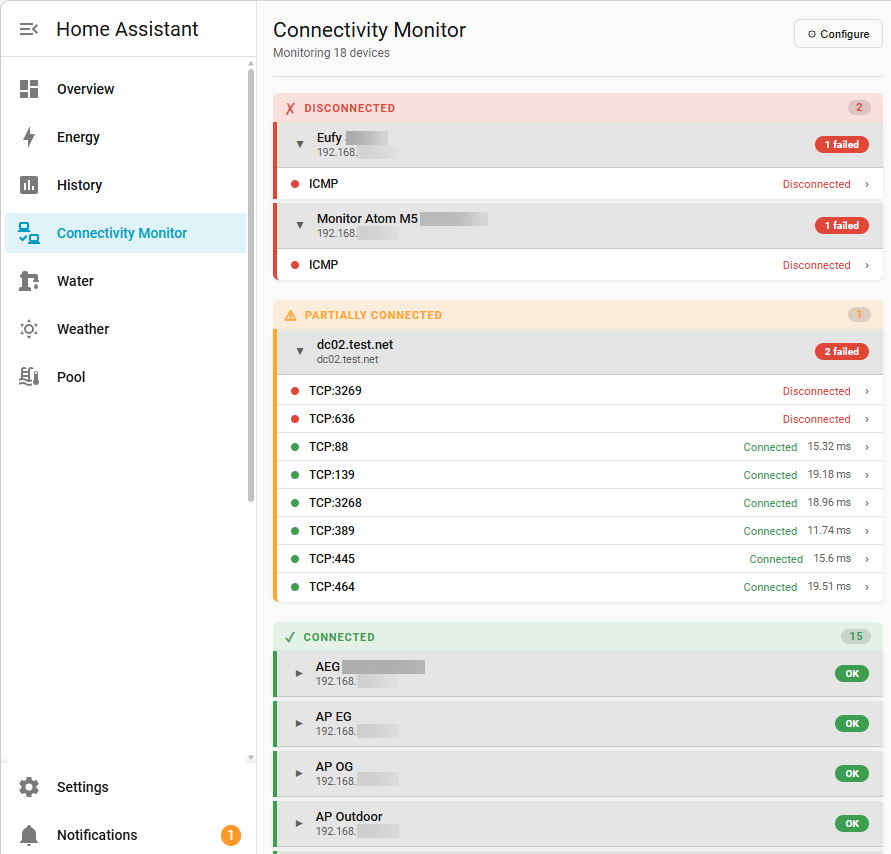
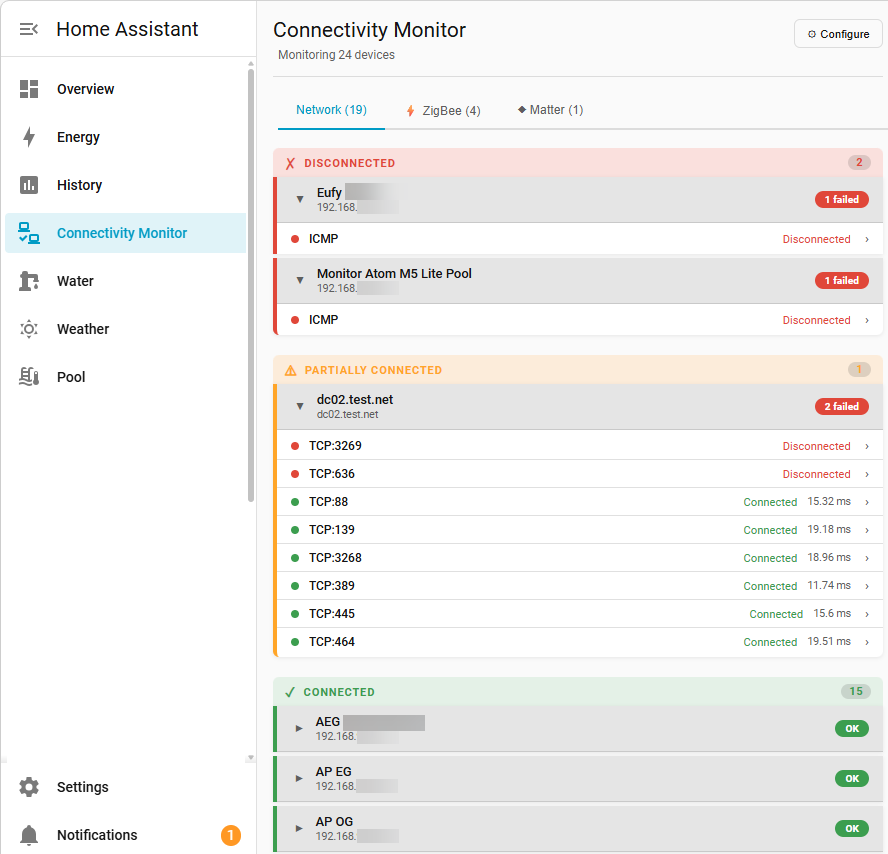
0.1.00040 Clean up orphaned devices

diff --git a/custom_components/connectivity_monitor/www/panel.js b/custom_components/connectivity_monitor/www/panel.js
@@ -395,7 +395,7 @@
         ? "<span class=\"sensor-latency\">action: " + esc(device.alertAction.split(".").slice(1).join(".") || device.alertAction) + " (" + esc(device.alertActionDelay) + " min)</span>"
         : "";
 
-      return "<div class=\"device-card card-" + meta.css + "\">" + +
+      return "<div class=\"device-card card-" + meta.css + "\">" +
         "<div class=\"device-header\">" +
           "<button class=\"toggle-btn\" data-toggle=\"" + esc(toggle) + "\" title=\"" + (collapsed ? "Expand" : "Collapse") + "\">" + chevron + "</button>" +
           "<div class=\"device-info clickable\" " + deviceAttr + ">" +

diff --git a/custom_components/connectivity_monitor/config_flow.py b/custom_components/connectivity_monitor/config_flow.py
@@ -603,6 +603,8 @@ class OptionsFlowHandler(config_entries.OptionsFlow):
                 return await self.async_step_matter_menu()
             elif category == "settings":
                 return await self.async_step_settings()
+            elif category == "cleanup":
+                return await self.async_step_cleanup_orphans()
 
         has_network = any(t.get(CONF_PROTOCOL) not in (PROTOCOL_ZHA, PROTOCOL_MATTER) for t in self._targets)
         has_zha = any(t.get(CONF_PROTOCOL) == PROTOCOL_ZHA for t in self._targets)
@@ -616,6 +618,7 @@ class OptionsFlowHandler(config_entries.OptionsFlow):
         if has_matter:
             categories["matter"] = "Matter Device"
         categories["settings"] = "General Settings"
+        categories["cleanup"] = "Clean up Orphaned Devices"
 
         return self.async_show_form(
             step_id="menu",
@@ -867,29 +870,16 @@ class OptionsFlowHandler(config_entries.OptionsFlow):
                 errors[CONF_HOST] = "invalid_host"
             else:
                 old_host = self._selected_device
-                entity_registry = async_get_entity_registry(self.hass)
                 device_registry = async_get_device_registry(self.hass)
-                entry_entities = async_entries_for_config_entry(
-                    entity_registry, self.config_entry.entry_id
-                )
 
-                # Find device_ids for the old host via entity state attributes.
-                # Each sensor stores "host" in its attributes, so this works
-                # regardless of whether the device is keyed by MAC or by host.
+                # Locate device entries via hw_version, which is always set to
+                # target[CONF_HOST] in DeviceInfo — works regardless of whether
+                # the identifier uses a MAC or the host string.
                 old_device_ids = set()
-                for entity_entry in entry_entities:
-                    state = self.hass.states.get(entity_entry.entity_id)
-                    if state and state.attributes.get("host") == old_host:
-                        if entity_entry.device_id:
-                            old_device_ids.add(entity_entry.device_id)
-
-                # Fallback: identifier-based lookup for devices that were never polled
-                if not old_device_ids:
-                    for device_entry in device_registry.devices.values():
-                        for identifier in device_entry.identifiers:
-                            if identifier[0] == DOMAIN and identifier[1] == old_host:
-                                old_device_ids.add(device_entry.id)
-                                break
+                for device_entry in device_registry.devices.values():
+                    if (device_entry.hw_version == old_host and
+                            any(i[0] == DOMAIN for i in device_entry.identifiers)):
+                        old_device_ids.add(device_entry.id)
 
                 # Update all targets that belong to the old host
                 for target in self._targets:
@@ -1045,23 +1035,20 @@ class OptionsFlowHandler(config_entries.OptionsFlow):
             # Remove all targets for this device
             self._targets = [t for t in self._targets if t[CONF_HOST] != device_host]
 
-            # Find and remove all entities for this device
-            entry_entities = async_entries_for_config_entry(entity_registry, self.config_entry.entry_id)
-            for entity_entry in entry_entities:
-                # Check if entity belongs to this device
-                if entity_entry.unique_id.startswith(f"{device_host}_"):
-                    entity_registry.async_remove(entity_entry.entity_id)
-
-            # Find and remove the device
-            device_id = None
+            # Locate device entries via hw_version, which is always set to
+            # target[CONF_HOST] in DeviceInfo for every network device — this
+            # works regardless of whether the identifier uses a MAC or the host.
+            device_ids = set()
             for device_entry in device_registry.devices.values():
-                for identifier in device_entry.identifiers:
-                    if identifier[0] == DOMAIN and identifier[1] == device_host:
-                        device_id = device_entry.id
-                        break
-                if device_id:
-                    device_registry.async_remove_device(device_id)
-                    break
+                if (device_entry.hw_version == device_host and
+                        any(i[0] == DOMAIN for i in device_entry.identifiers)):
+                    device_ids.add(device_entry.id)
+
+            # Remove devices — HA automatically removes their associated entities
+            # from the entity registry; any remaining stale entities are cleaned up
+            # during the reload triggered below.
+            for device_id in device_ids:
+                device_registry.async_remove_device(device_id)
 
             # Update config entry
             self.config_data[CONF_TARGETS] = self._targets
@@ -1435,4 +1422,43 @@ class OptionsFlowHandler(config_entries.OptionsFlow):
         return self.async_show_form(
             step_id="settings",
             data_schema=vol.Schema(schema)
+        )
+
+    async def async_step_cleanup_orphans(self, user_input=None):
+        """Remove devices registered under this integration that have no entities."""
+        from homeassistant.helpers.entity_registry import (
+            async_entries_for_device,
+            async_get as async_get_er,
+        )
+
+        entity_registry = async_get_er(self.hass)
+        device_registry = async_get_device_registry(self.hass)
+        entry_id = self.config_entry.entry_id
+
+        removed = []
+        for device_entry in list(device_registry.devices.values()):
+            # Only consider devices that list our config entry
+            if entry_id not in device_entry.config_entries:
+                continue
+            # Check whether any entity still belongs to our config entry
+            entry_entities = [
+                e for e in async_entries_for_device(entity_registry, device_entry.id)
+                if e.config_entry_id == entry_id
+            ]
+            if not entry_entities:
+                removed.append(device_entry.name or device_entry.id)
+                if device_entry.config_entries == {entry_id}:
+                    # Exclusively ours — delete the device entirely
+                    device_registry.async_remove_device(device_entry.id)
+                else:
+                    # Shared with another integration — only remove our association
+                    device_registry.async_update_device(
+                        device_entry.id, remove_config_entry_id=entry_id
+                    )
+
+        if removed:
+            _LOGGER.info("Connectivity Monitor: cleaned up orphaned devices: %s", removed)
+
+        return self.async_abort(
+            reason="cleanup_done"
         )

diff --git a/custom_components/connectivity_monitor/sensor.py b/custom_components/connectivity_monitor/sensor.py
@@ -32,6 +32,7 @@ from homeassistant.helpers.update_coordinator import (
 from homeassistant.helpers.entity_registry import (
     async_entries_for_config_entry,
     async_get as async_get_entity_registry,
+    async_entries_for_device,
 )
 from homeassistant.helpers.device_registry import async_get as async_get_device_registry
 
@@ -213,6 +214,31 @@ async def async_setup_entry(
         if entity.unique_id not in new_unique_ids:
             _LOGGER.debug("Removing old entity: %s (unique_id: %s)", entity.entity_id, entity.unique_id)
             entity_registry.async_remove(entity.entity_id)
+
+    # Remove orphaned devices — any device that references this config entry
+    # but has no remaining entities belonging to it. This covers both our own
+    # DOMAIN devices (network monitors) and shared devices (ZHA/Matter) where
+    # our diagnostic sensor was removed but the config-entry link was not.
+    device_registry = async_get_device_registry(hass)
+    for device_entry in list(device_registry.devices.values()):
+        if entry.entry_id not in device_entry.config_entries:
+            continue
+        entry_entity_ids = {
+            e.entity_id
+            for e in async_entries_for_device(entity_registry, device_entry.id)
+            if e.config_entry_id == entry.entry_id
+        }
+        if not entry_entity_ids:
+            _LOGGER.debug("Removing orphaned device: %s (%s)", device_entry.name, device_entry.id)
+            if device_entry.config_entries == {entry.entry_id}:
+                # Only our integration owns this device — safe to delete entirely.
+                device_registry.async_remove_device(device_entry.id)
+            else:
+                # Device is shared with another integration (e.g. ZHA/Matter).
+                # Only remove our association so the device remains intact.
+                device_registry.async_update_device(
+                    device_entry.id, remove_config_entry_id=entry.entry_id
+                )
 
     _LOGGER.debug("Final entities to be added: %s",
                  [{"entity_id": e.entity_id, "unique_id": e.unique_id} for e in entities])

diff --git a/readme.md b/readme.md
@@ -6,7 +6,7 @@ Adds a Connectivity Monitor to Home assistant. This integration requires [HACS](
 
 ## Features
 
-This integration allows to monitor devices and create Alarams and Alert Actions.
+This integration allows to monitor devices and create Alert Notification and Alert Actions.
 
 - Device Types:
   - Network Devices:
@@ -16,6 +16,7 @@ This integration allows to monitor devices and create Alarams and Alert Actions.
     - Active Directory Domain Controller
     - supports targets with IP-Address or FQDN
   - ZigBee (ZHA)
+  - Matter
 - allows to add later more targets or remove them again
 - allows to use a custom DNS server to resolve FQDN
 

diff --git a/changelog.md b/changelog.md
@@ -2,6 +2,8 @@
 
 | Version | Date | Description |
 | --- | --- | --- |
+| 0.1.00040 | 31/03/2026 | Clean up orphaned devices |
+| 0.1.00039 | 31/03/2026 | fixed issue with ZigBee tab in the sidebar panel |
 | 0.1.00038 | 31/03/2026 | added Matter devices to the sidebar panel |
 | 0.1.00037 | 31/03/2026 | adding support for Matter devices |
 | 0.1.00036 | 31/03/2026 | changed structure of Config Flow |
